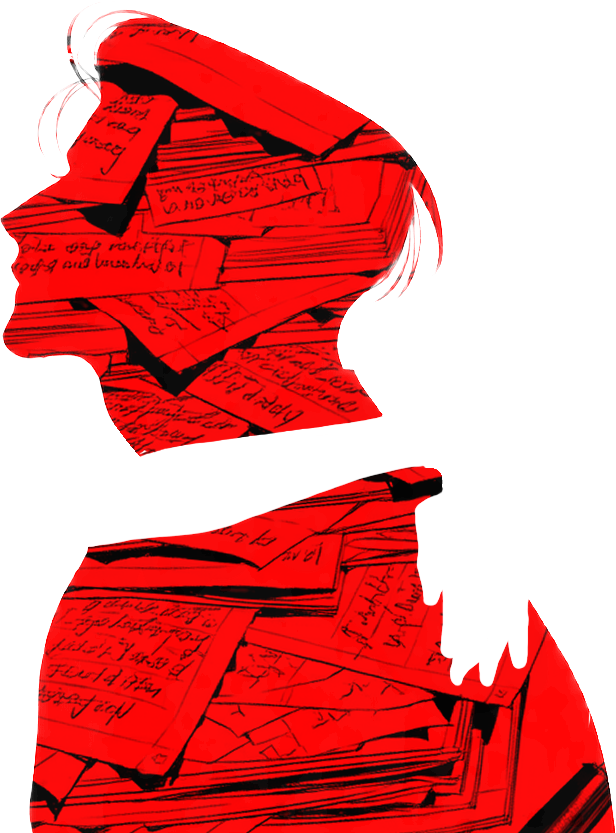
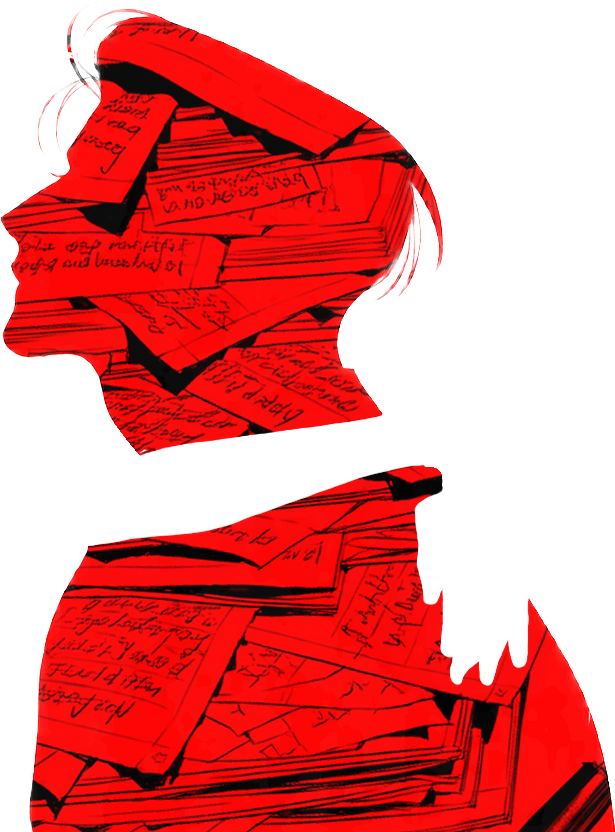
Add files via upload

diff --git a/index.html b/index.html
@@ -9,7 +9,7 @@
   <link rel="preload" as="image" href="assets/scene-static.png">
   <link rel="preconnect" href="https://fonts.googleapis.com"><link rel="preconnect" href="https://fonts.gstatic.com" crossorigin>
   <link rel="stylesheet" href="https://fonts.googleapis.com/css2?family=Cormorant+Garamond:ital,wght@1,500;1,600;1,700&display=swap">
-  <link rel="stylesheet" href="style.css?v=14">
+  <link rel="stylesheet" href="style.css?v=15">
   <script src="script.js?v=14" defer></script>
   <script src="snow.js?v=1" defer></script>
   <script src="notebook.js?v=2" defer></script>
@@ -20,8 +20,8 @@
      <!-- 사용자가 제시한 눈이 고정된 원본 합성본. PSD의 Divide/노이즈/블렌딩이 화소에 포함되어 있습니다. -->
      <img class="scene-image" src="assets/scene-static.png" draggable="false" alt="">
      <!-- 실제 2(4).psd에 들어 있는 클리핑 호버 이미지; 움직이는 것은 호버 와이프뿐입니다. -->
-     <img class="hover-layer hover-maria" src="assets/hover-maria.png" draggable="false" alt="">
-     <img class="hover-layer hover-vittorio" src="assets/hover-vittorio.png" draggable="false" alt="">
+     <img class="hover-layer hover-maria" src="assets/hover-maria.png?v=2" draggable="false" alt="">
+     <img class="hover-layer hover-vittorio" src="assets/hover-vittorio.png?v=2" draggable="false" alt="">
      <!-- 기존 픽셀 글씨를 다시 겹쳐 쓰지 않도록, 해당 픽셀을 원본 배경으로 덮고 빨간 글씨를 노출. -->
      <img class="title-wipe title-clean title-clean-maria" src="assets/title-clean-maria.png" draggable="false" alt="">
      <img class="title-wipe title-red title-red-maria" src="assets/title-red-maria.png" draggable="false" alt="">

diff --git a/style.css b/style.css
@@ -10,7 +10,7 @@ body{font-family:"Times New Roman",Tinos,Georgia,serif}
 .hover-layer{position:absolute;z-index:3;display:block;pointer-events:none;user-select:none;transition:clip-path var(--red-duration) cubic-bezier(.45,0,.2,1);will-change:clip-path}
 .hover-maria{mix-blend-mode:multiply;left:458px;top:167px;width:1023px;height:913px;clip-path:inset(100% 0 0 0)}
 .scene[data-hover="maria"] .hover-maria{clip-path:inset(0 0 0 0)}
-.hover-vittorio{mix-blend-mode:screen;left:927px;top:247px;width:616px;height:833px;clip-path:inset(0 0 100% 0)}
+.hover-vittorio{mix-blend-mode:screen;left:927px;top:248px;width:615px;height:832px;clip-path:inset(0 0 100% 0)}
 .scene[data-hover="vittorio"] .hover-vittorio{clip-path:inset(0 0 0 0)}
 .title-wipe{position:absolute;display:block;pointer-events:none;user-select:none;transition:clip-path var(--red-duration) cubic-bezier(.45,0,.2,1);will-change:clip-path}
 .title-clean{z-index:5}

diff --git a/README.md b/README.md
@@ -101,3 +101,7 @@ tracks: [
   · news.html: 한 단씩 세로로 쌓이는 신문. 제호·LATE CITY EDITION → 재생 바(위에 고정) → 헤드라인(단어 묶음으로 줄바꿈) → PAGE 3 → PAGE 4 → FIN. 광고는 모두 표시. 제호 누르면 바로 메인으로.
   · index.html: 처음에 마리아 쪽에서 가운데로 천천히 이동 + "← drag →" 안내. (기존처럼 좌우로 끌어서 보기)
   · 헤드라인 모바일용 조각: assets/news/headline-m1~8.png
+
+## v19
+- 메인 호버 레이어를 PSD(4d533fdc-2.psd)의 M-mousehover / V-mousehover에서 다시 추출.
+  예전 hover-maria.png에 옛 위치의 연대기 글자 조각("Spent" 등)이 박혀 있어서, 연대기를 올린 뒤 글자가 겹쳐 보이던 문제 수정. V 호버 위치도 PSD 좌표(927, 248)에 정확히 맞춤.
